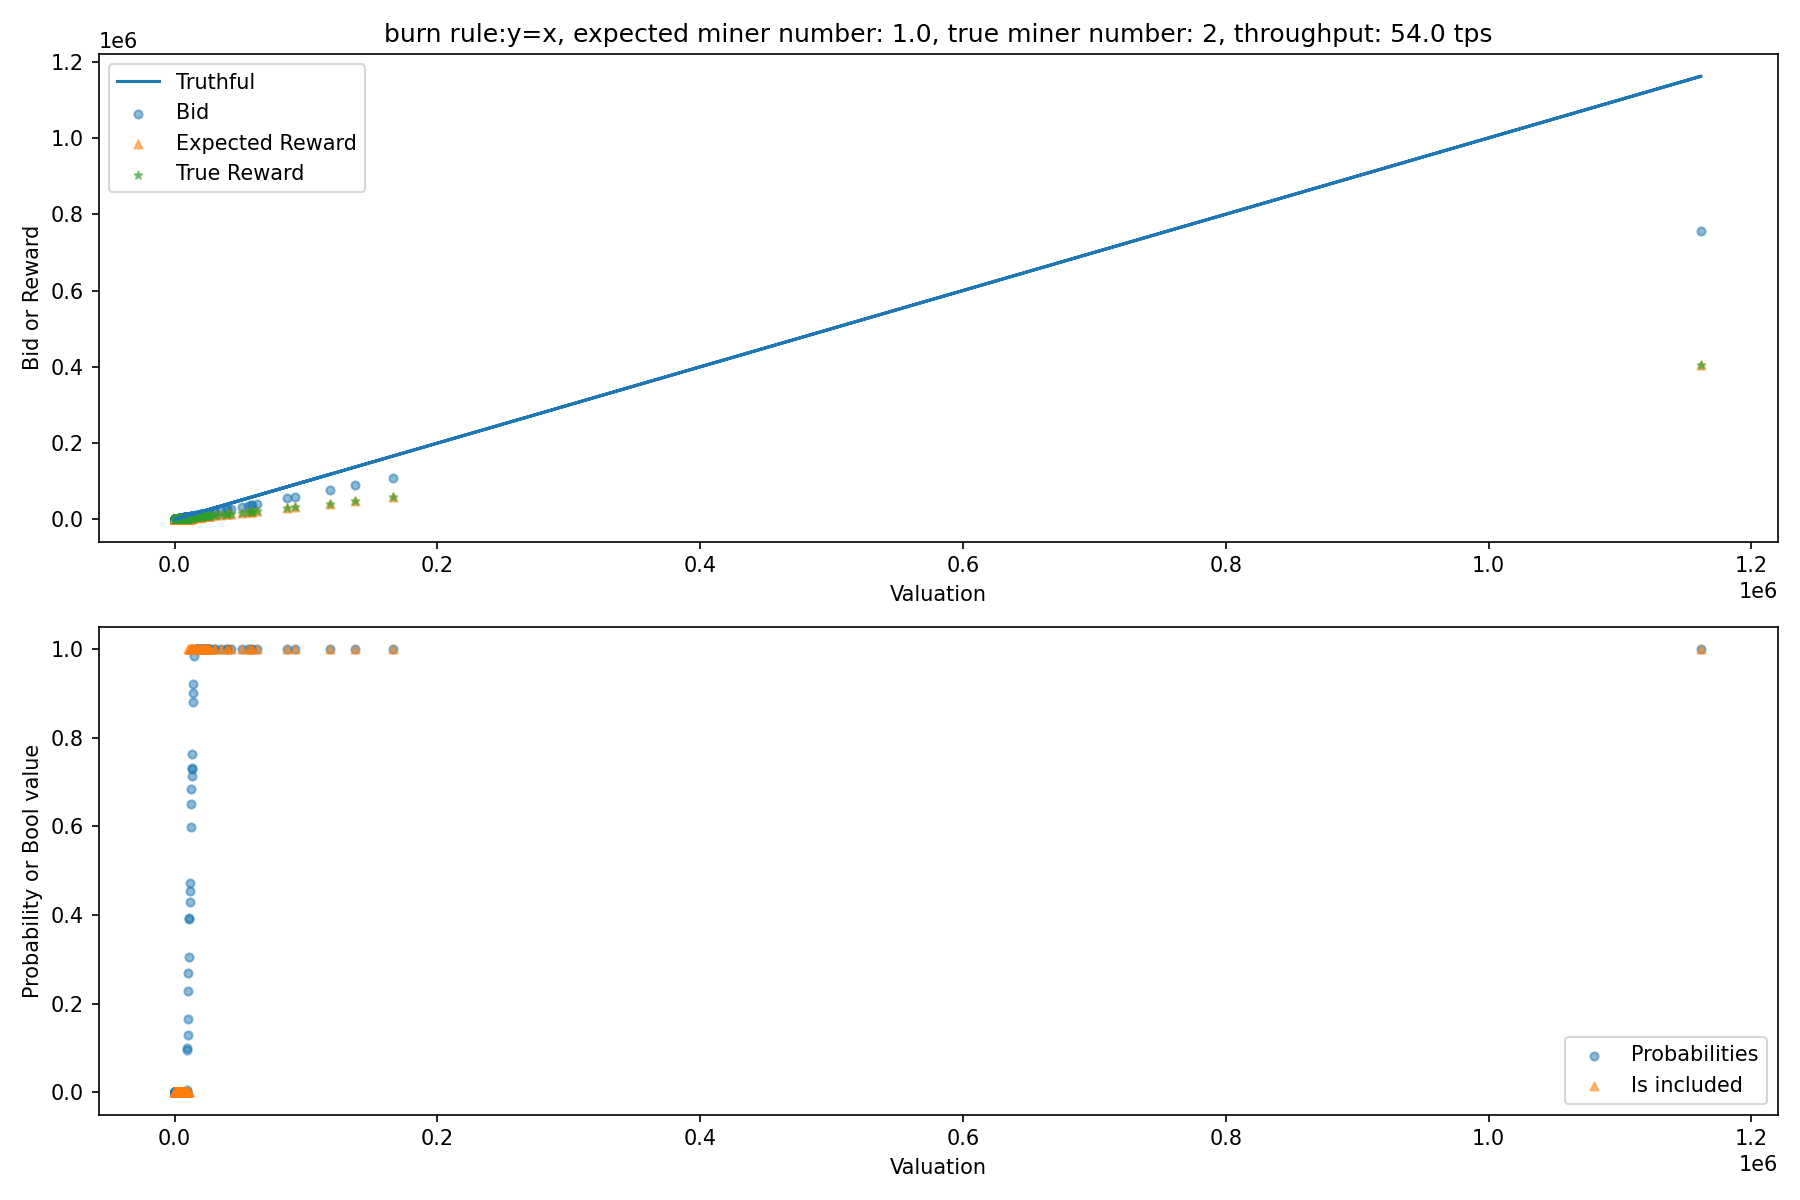
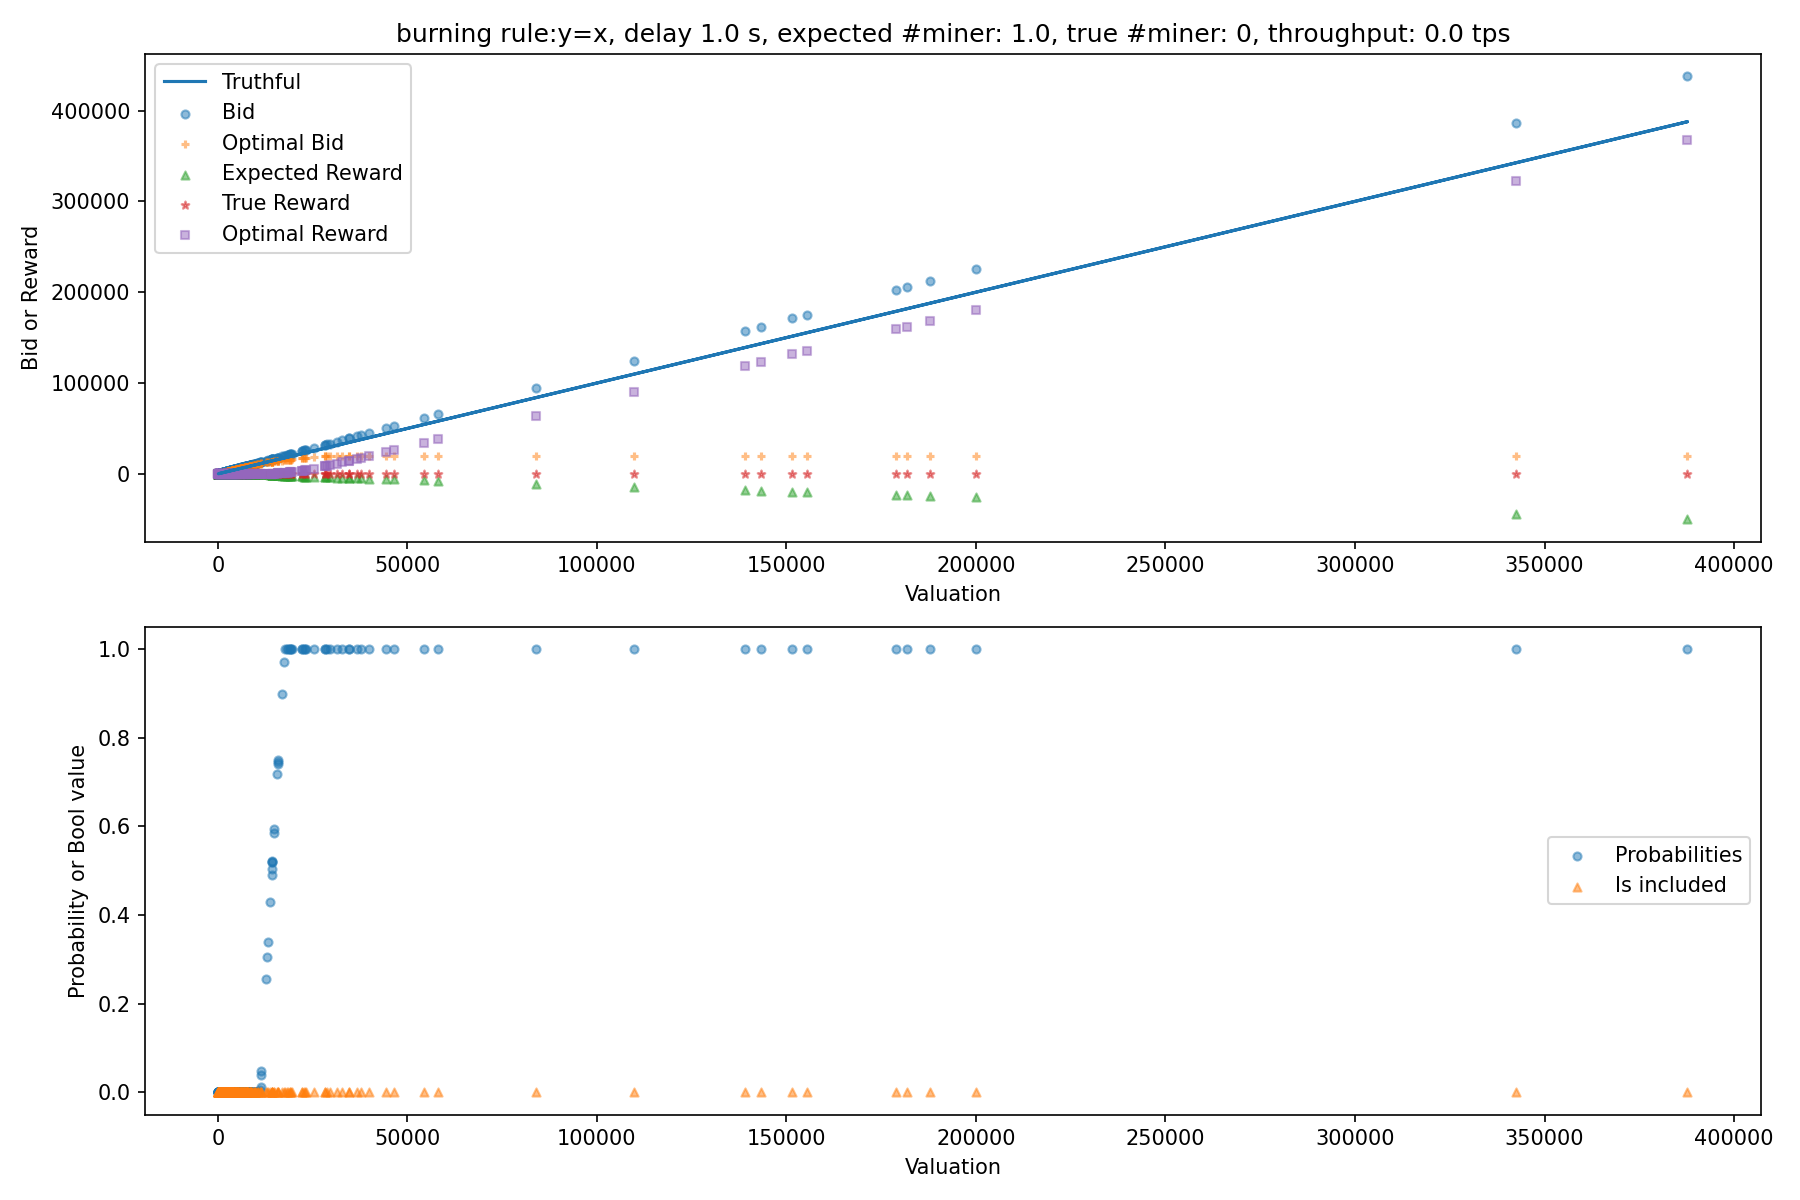
modify doc

diff --git a/scripts/train_es.py b/scripts/train_es.py
@@ -229,7 +229,8 @@ class Trainer(object):
             _, reward, _ = env.step_without_packing(action)
             regret.append((opt_reward - reward[0]) / state[0])
 
-        mean_ = sum(regret) / len(regret)
+        # TODO: only consider non-zero value ?
+        mean_ = sum(regret[regret > 0]) / len(regret[regret > 0])
         max_ = max(regret)
         logger.debug(f'end, mean regret: {mean_}, max regret: {max_}, regret: {regret}')
 
@@ -250,12 +251,11 @@ class Trainer(object):
             _, opt_reward = env.find_optim_action(action, idx=0)
             _, reward, _ = env.step_without_packing(action)
             regret.append((opt_reward - reward[0]) / state[0])
-            logger.debug(f'state0: {state[0]}, action0: {action[0]}, reward0: {reward[0]}, optimal reward0: {opt_reward}')
-            # logger.debug(f'state0: {state[0]}, action0: {action[0]}, reward0: {reward[0]}, optimal reward0: {opt_reward}, state: {state}, action: {action}, reward: {reward}')
 
-        mean_ = sum(regret) / len(regret)
+        mean_ = sum(regret[regret > 0]) / len(regret[regret > 0])
         max_ = max(regret)
         logger.debug(f'end, regret: {regret}')
+
         return mean_, max_
     
 
@@ -336,12 +336,13 @@ class Trainer(object):
             title = f'y=a^{self.cfgs.a}'
 
         state = self.env.reset()
-        title = f'burn rule:{title}, in {self.env.delta} time, expected miner number: {self.env.delta * self.env.lambd}, true miner number: {self.env.num_miners}'
+        title = f'burning rule:{title}, delay {self.env.delta} s, expected #miner: {self.env.delta * self.env.lambd}, true #miner: {self.env.num_miners}'
 
         self.strategies.load_state_dict(torch.load(self.cfgs.path.model_path))
         action = self.strategies(
             torch.FloatTensor(state).to(torch.float64).reshape(-1, 1).to(self.device)
         ).squeeze().detach().cpu().numpy()
+        opt_action, opt_reward = self.env.find_all_optim_action(action)
         _, reward, _, info = self.env.step(action)
 
         title = f'{title}, throughput: {info["throughput"]} tps'
@@ -357,8 +358,10 @@ class Trainer(object):
 
         ax1.plot(state, state, label='Truthful')
         ax1.scatter(state, action, s=size, marker='o', alpha=alpha, label='Bid')
+        ax1.scatter(state, opt_action, s=size, marker='+', alpha=alpha, label='Optimal Bid')
         ax1.scatter(state, reward, s=size, marker='^', alpha=alpha, label='Expected Reward')
         ax1.scatter(state, info['true_reward'], marker='*', s=size, alpha=alpha, label='True Reward')
+        ax1.scatter(state, opt_reward, marker='s', s=size, alpha=alpha, label='Optimal Reward')
         ax1.set_xlabel('Valuation')
         ax1.set_ylabel('Bid or Reward')
         ax1.set_title(title)
@@ -374,7 +377,7 @@ class Trainer(object):
 
         plt.savefig(self.cfgs.path.img_path)
         plt.show()
-        self.logger.info(f'========== save figure to {self.cfgs.path.img_path} ==========')
+        self.logger.info(f'========== save figure to {self.cfgs.path.img_path} ==========\n')
 
 
 if __name__ == '__main__':

diff --git a/run.py b/run.py
@@ -13,9 +13,15 @@ if __name__ == '__main__':
     parser.add_argument('--method', type=str, required=True, help='Mode Name')
     parser.add_argument('--mode', type=str, required=True, default='train', help='Mode Name')
     parser.add_argument('--cfg', type=str, required=True, help='Config Path')
+    parser.add_argument('--seed', type=int)
+    parser.add_argument('--max_agents_num', type=int)
     parser.add_argument('--lambd', type=float)
+    parser.add_argument('--delta', type=float)
     parser.add_argument('--burn_flag', type=str)
+    parser.add_argument('--b', type=int)
     parser.add_argument('--a', type=float)
+    parser.add_argument('--clip_value', type=float)
+    parser.add_argument('--norm_value', type=float)
     args = parser.parse_args()
     args = argparse.Namespace(**{k: v for k, v in vars(args).items() if v is not None})
 

diff --git a/utils/cfgs.py b/utils/cfgs.py
@@ -34,6 +34,8 @@ def handle_cfgs(default, custom, verbose=True):
 
     # create path
     generate_path(cfgs)
+    cfgs.path.cfg_path = cfgs.cfg
+    del cfgs['cfg']
 
     if cfgs.burn_flag in ['non', 'log', 'poly']:
         if cfgs.burn_flag == 'non':

diff --git a/README.md b/README.md
@@ -37,8 +37,25 @@ Run
 * Test: test throughputs
 * Eval: evaluate the equilibrium
 
+Example:
+
 ```bash
-python3 -u ./run.py --method ES --mode train --cfg ./config/es.yaml --lambd 1 --burn_flag non --a 1
+conda env create -f environment.yml
+conda activate <env_name>
+
+python3 -u ./run.py \
+--method ES \
+--mode train \
+--cfg ./config/es.yaml \
+--seed 3407\
+--max_agents_num 500\
+--lambd 1 \
+--delta 1 \
+--burn_flag log \
+--b 50 \
+--a 1 \
+--clip_value 100000000 \
+--norm_value 1
 ```
 
 Result
